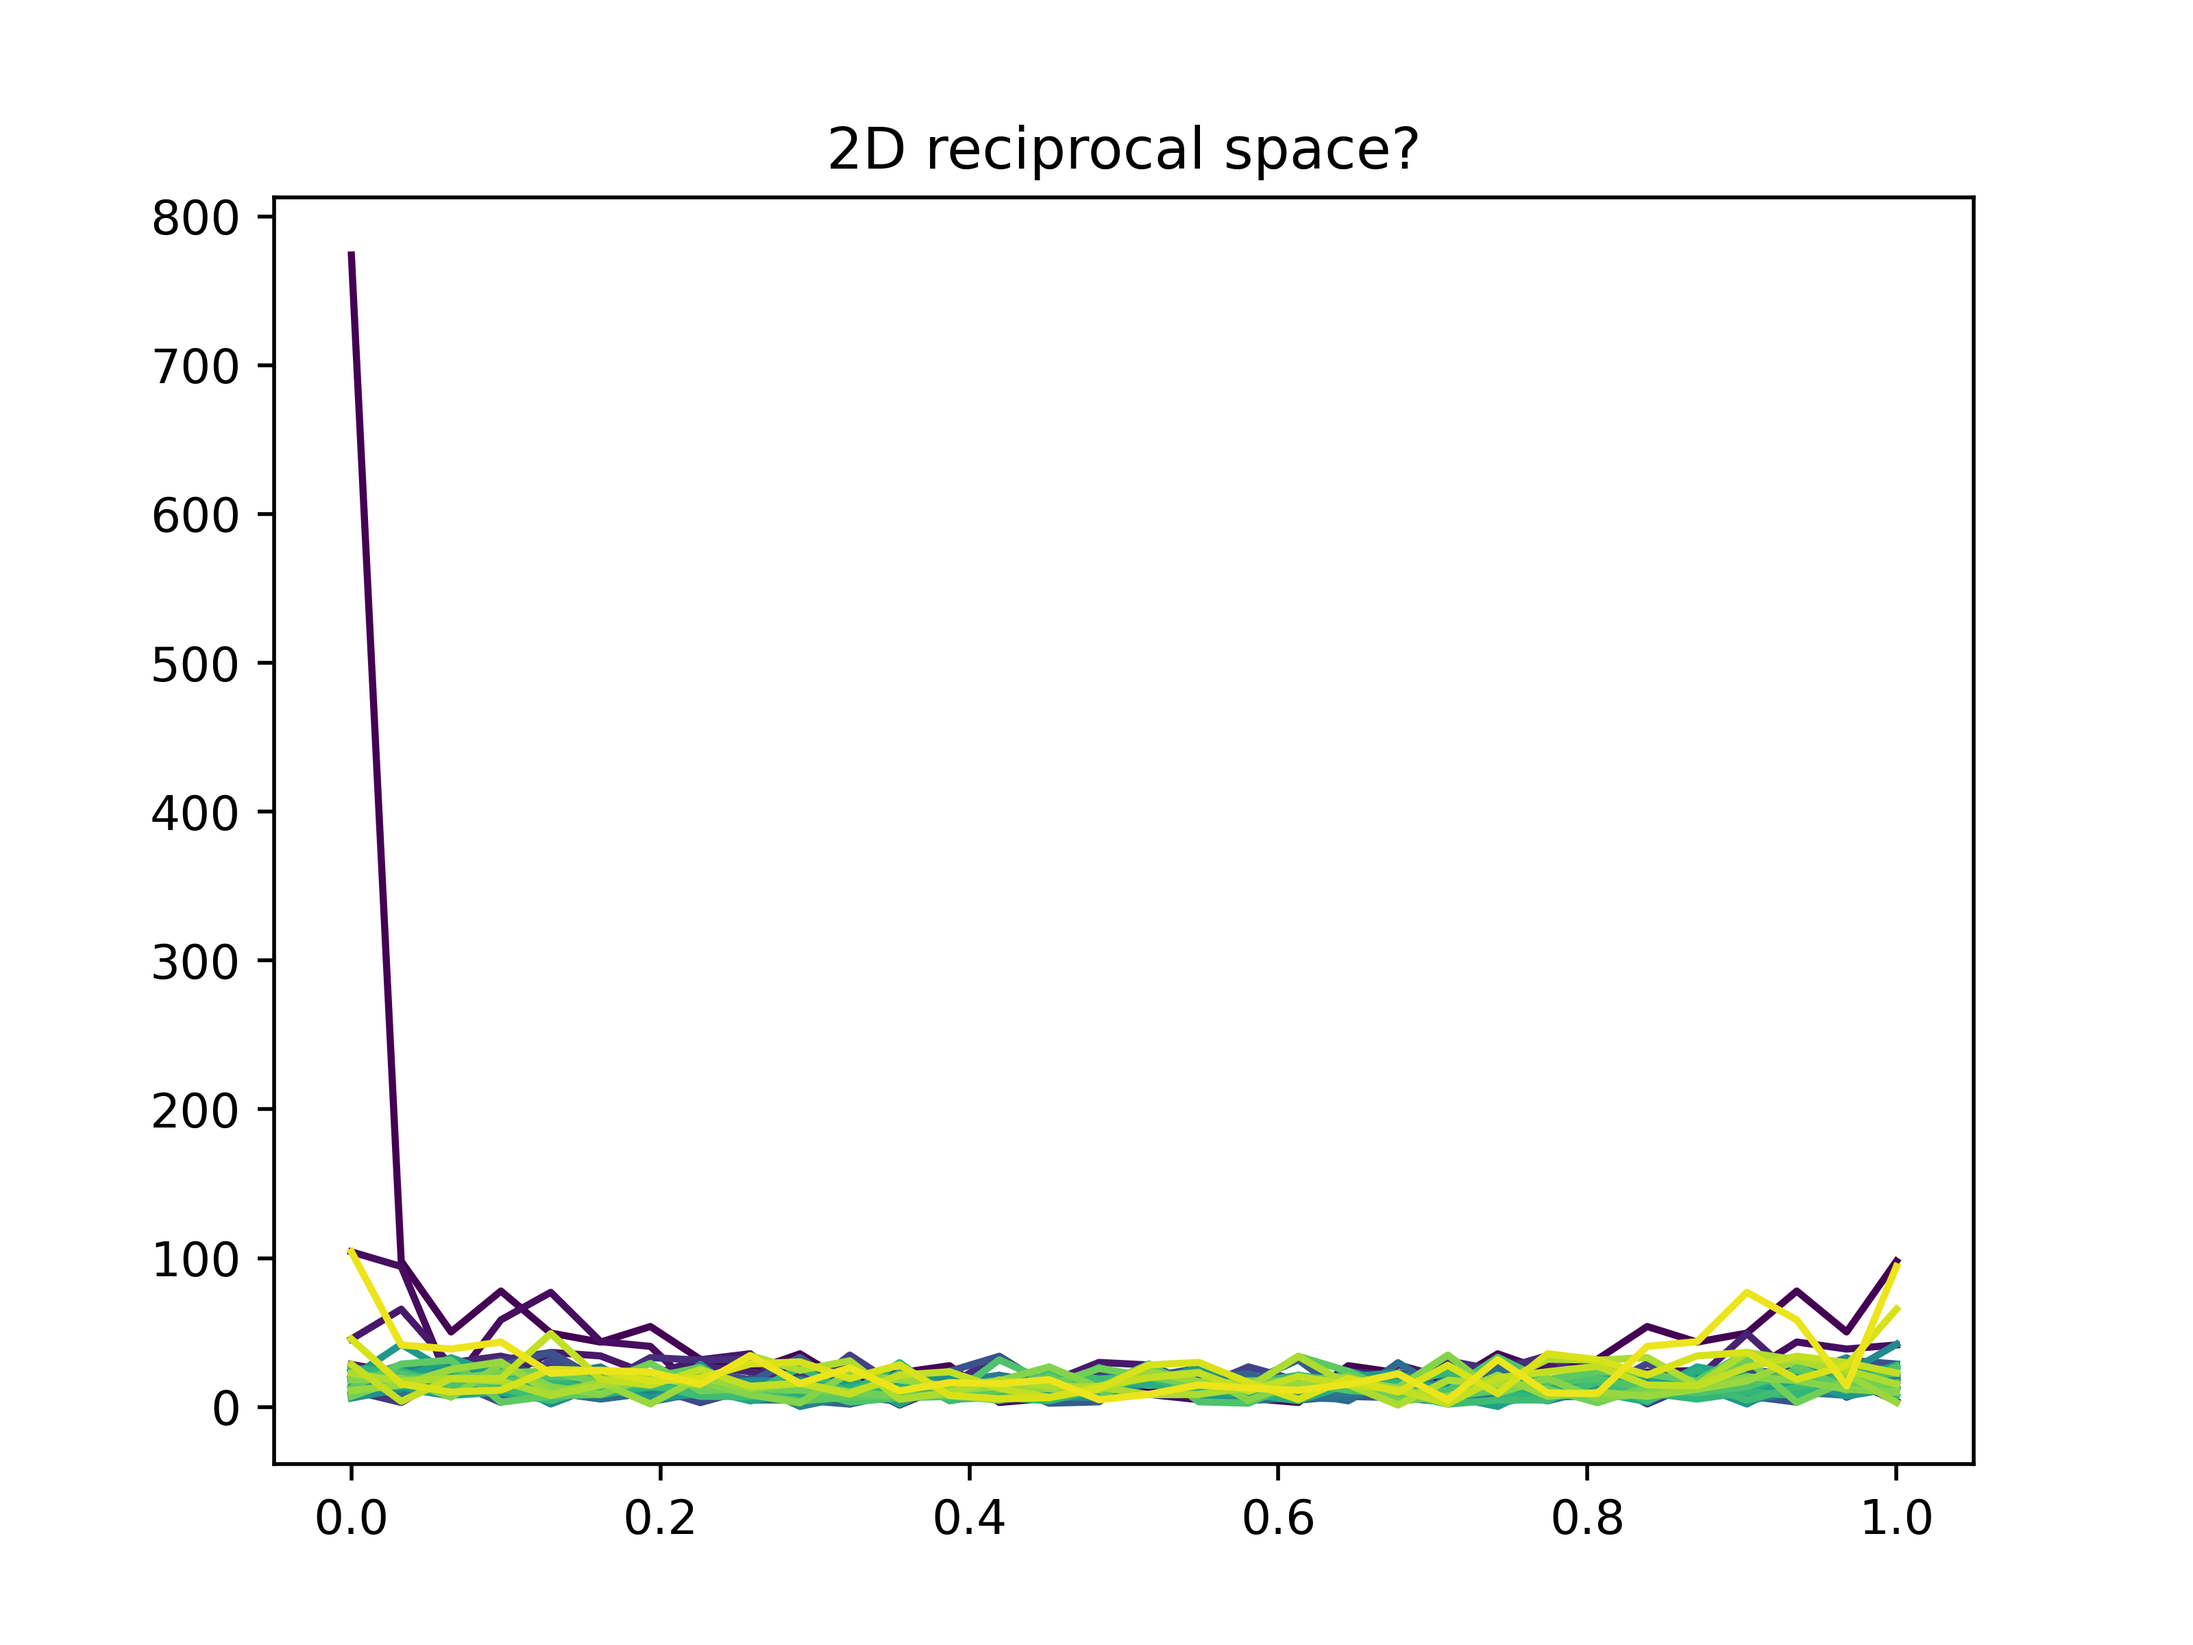
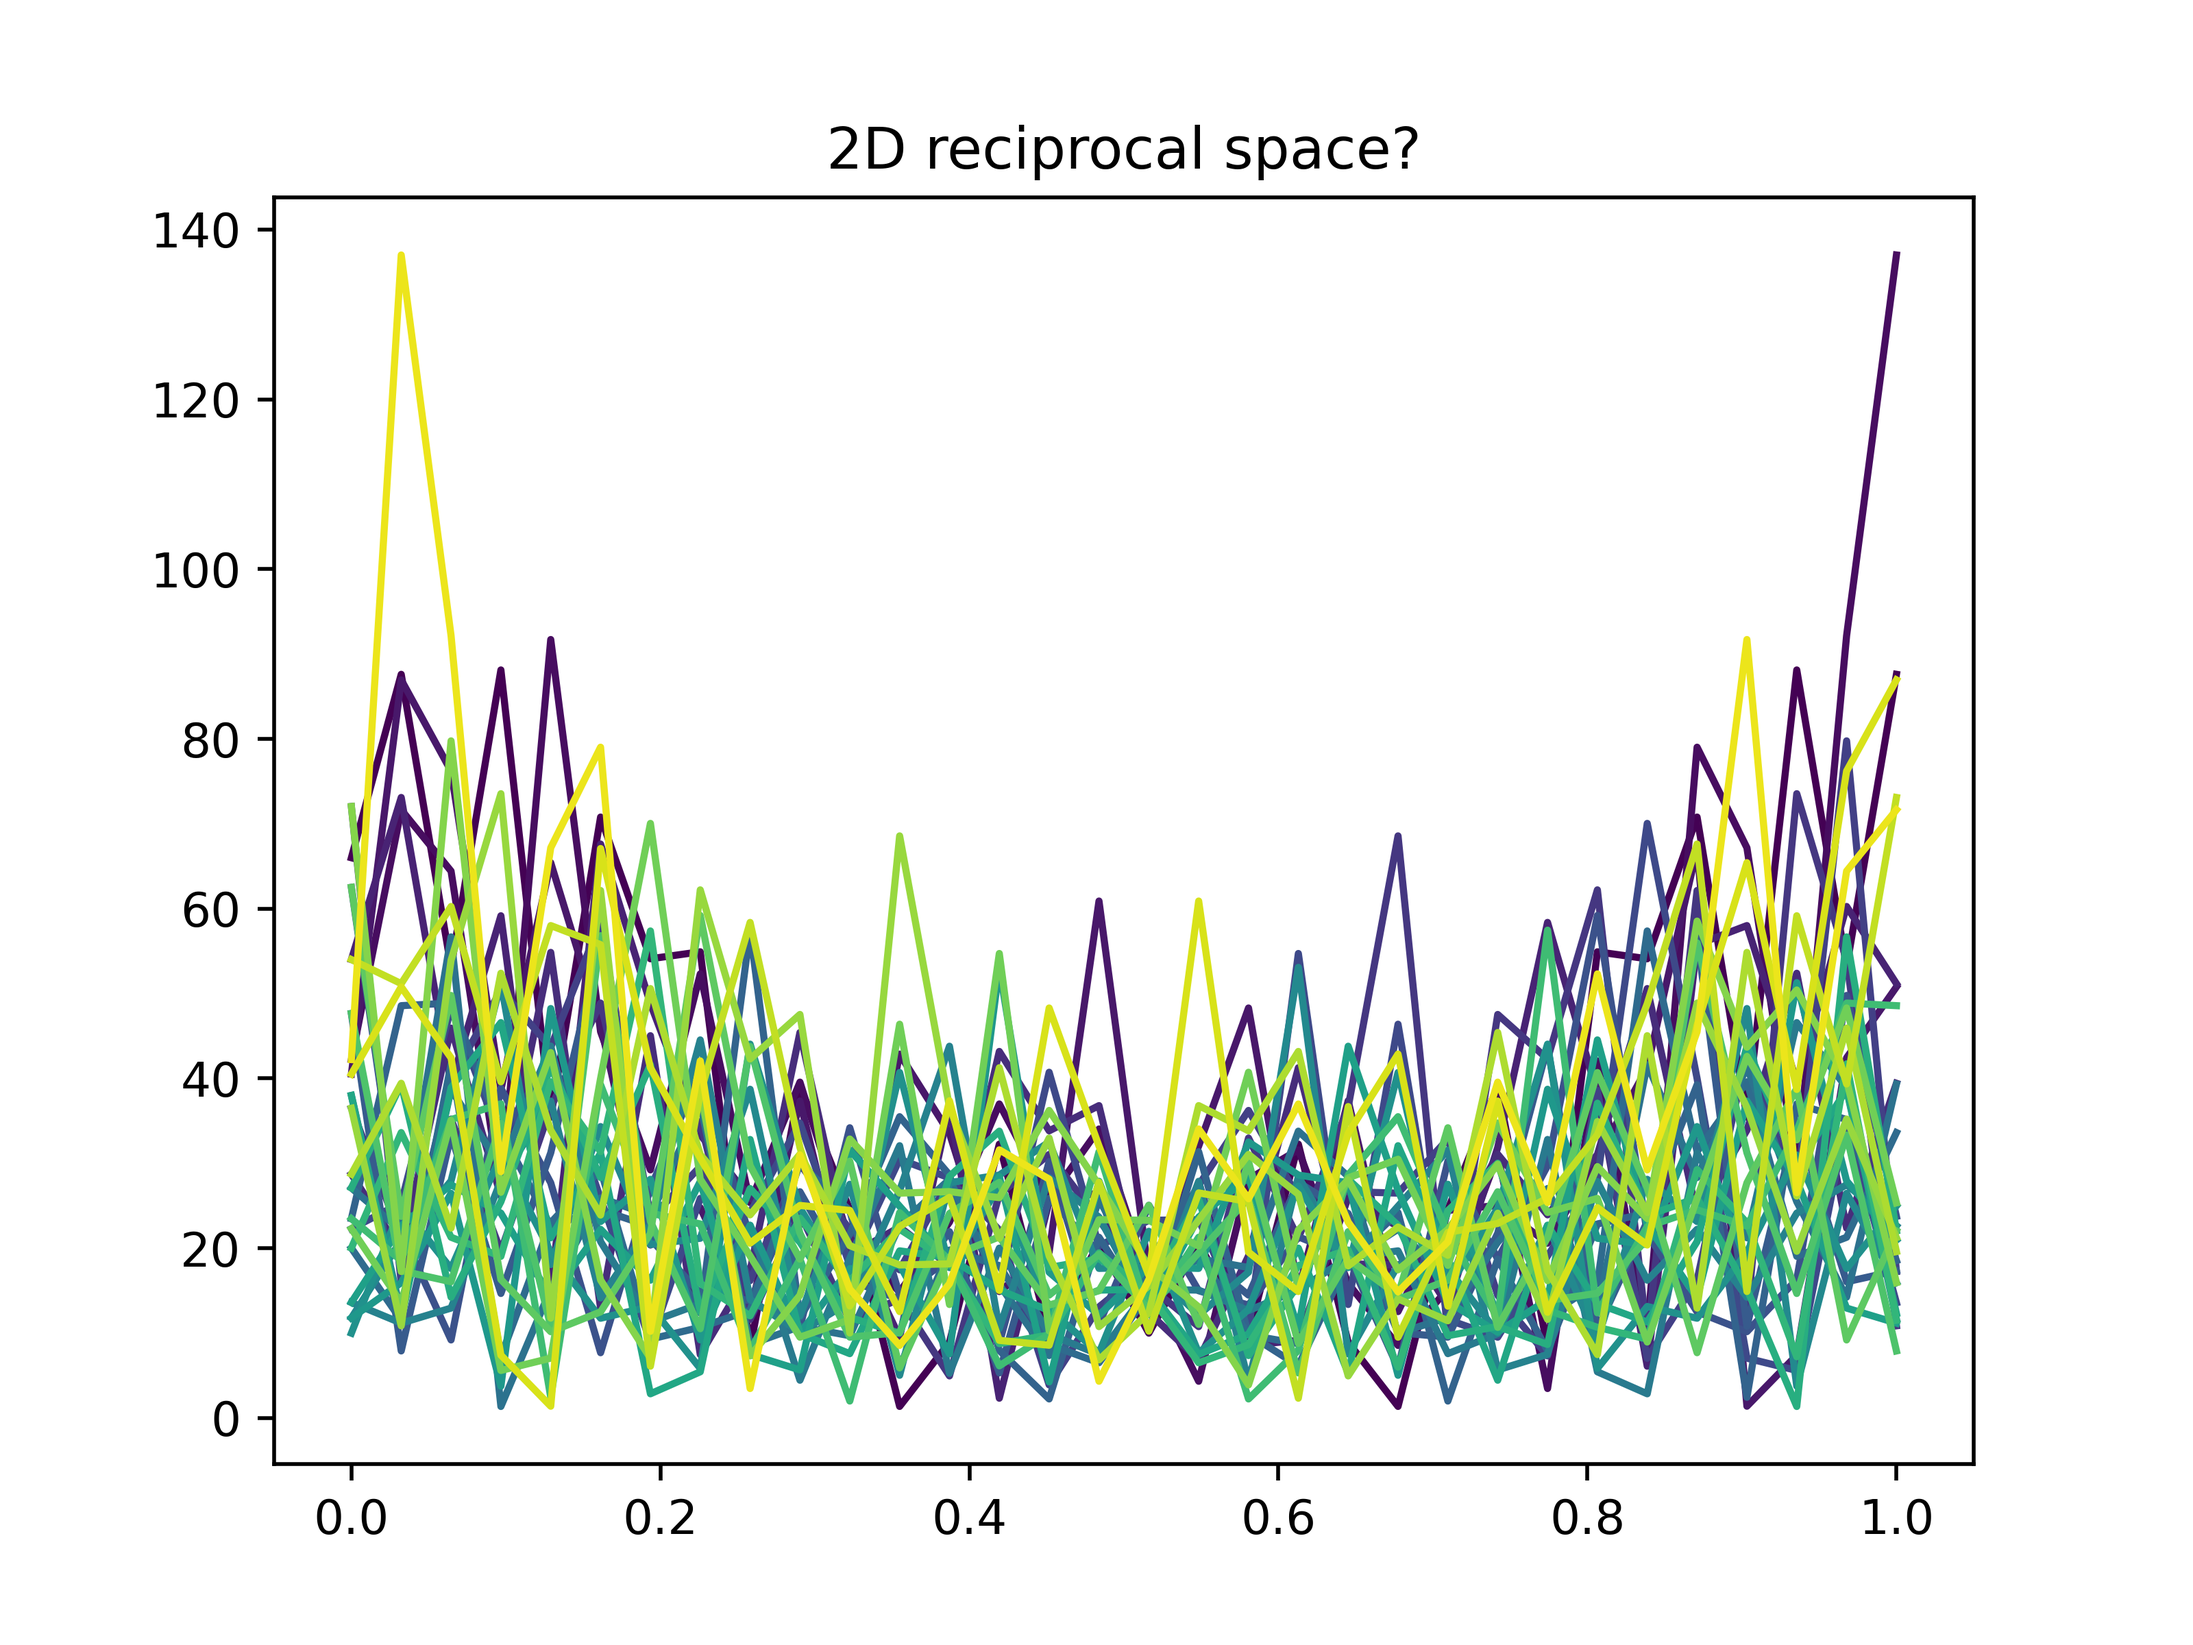
test virker?
kør simulations/FourierTest.cpp og fourierPlot.py, eneste vigtige er vist fourier_heatmap.png

diff --git a/core/MonteCarlo.hpp b/core/MonteCarlo.hpp
@@ -92,8 +92,8 @@ void MCStepWolff(Lattice &lattice, double T, std::mt19937 &rng, std::uniform_rea
 void MCStep(Lattice &lattice, double T, std::mt19937 &rng, std::uniform_real_distribution<double> &distReal)
 {
     // Wolff eller Metropolis, implementer begge senere
-    MCStepWolff(lattice, T, rng, distReal);
-    //MCStepMetropolis(lattice, T, rng, distReal);
+    //MCStepWolff(lattice, T, rng, distReal);
+    MCStepMetropolis(lattice, T, rng, distReal);
 }
 
 inline std::mutex &mcPrintMutex()

diff --git a/simulations/FourierTest.cpp b/simulations/FourierTest.cpp
@@ -17,10 +17,10 @@ int main()
     MCParameters params;
     params.latticeType = LatticeType::FunkySquare;
     params.size = 32;
-    params.temperature = 2.25;
+    params.temperature = 3.29;
     params.totalStepCount = 1e5;
     params.measurementInterval = 1e5;
-    params.randomize = false;
+    params.randomize = true;
     params.printProgress = false;
 
     Lattice2D *lattice;
